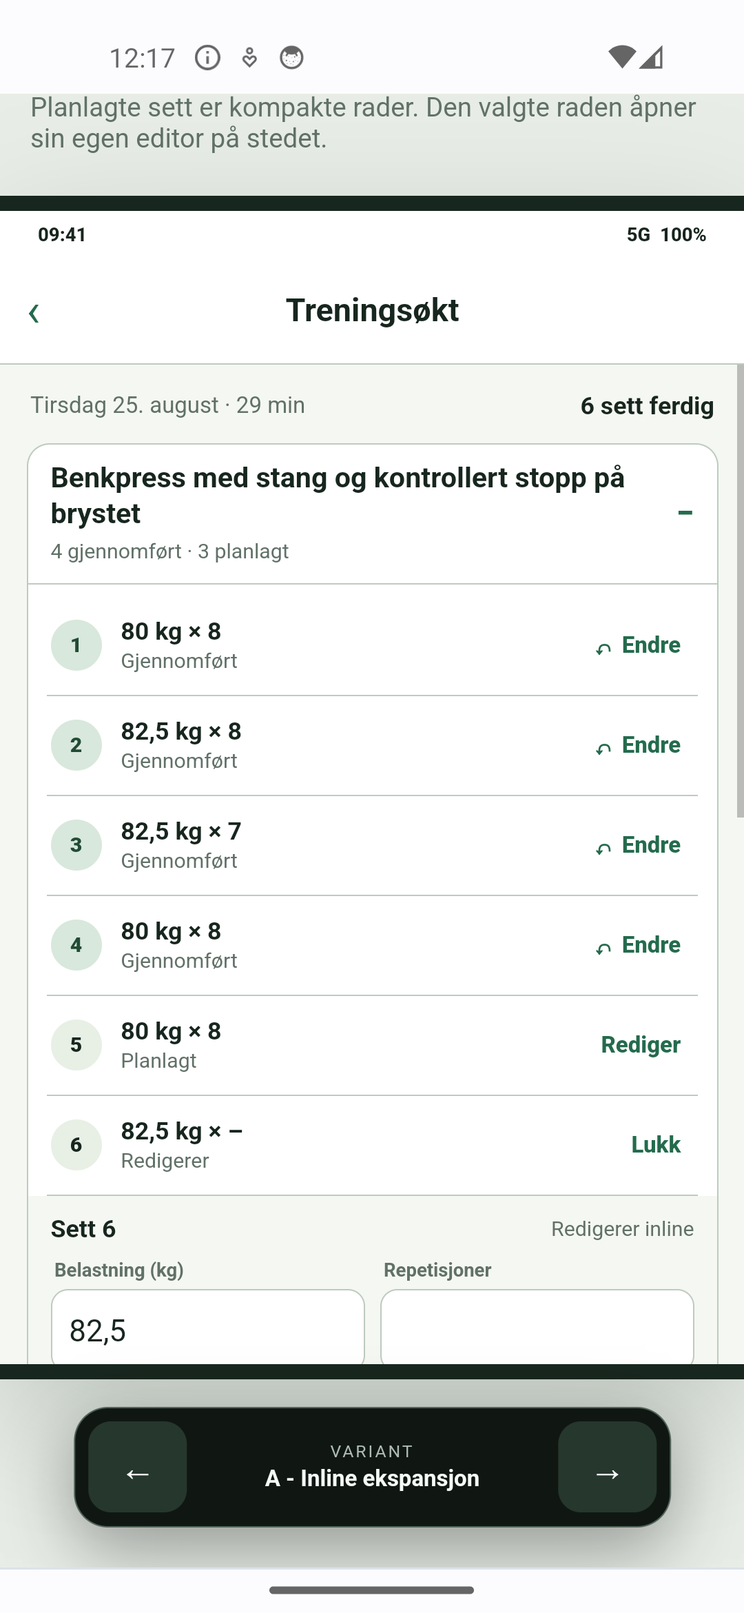
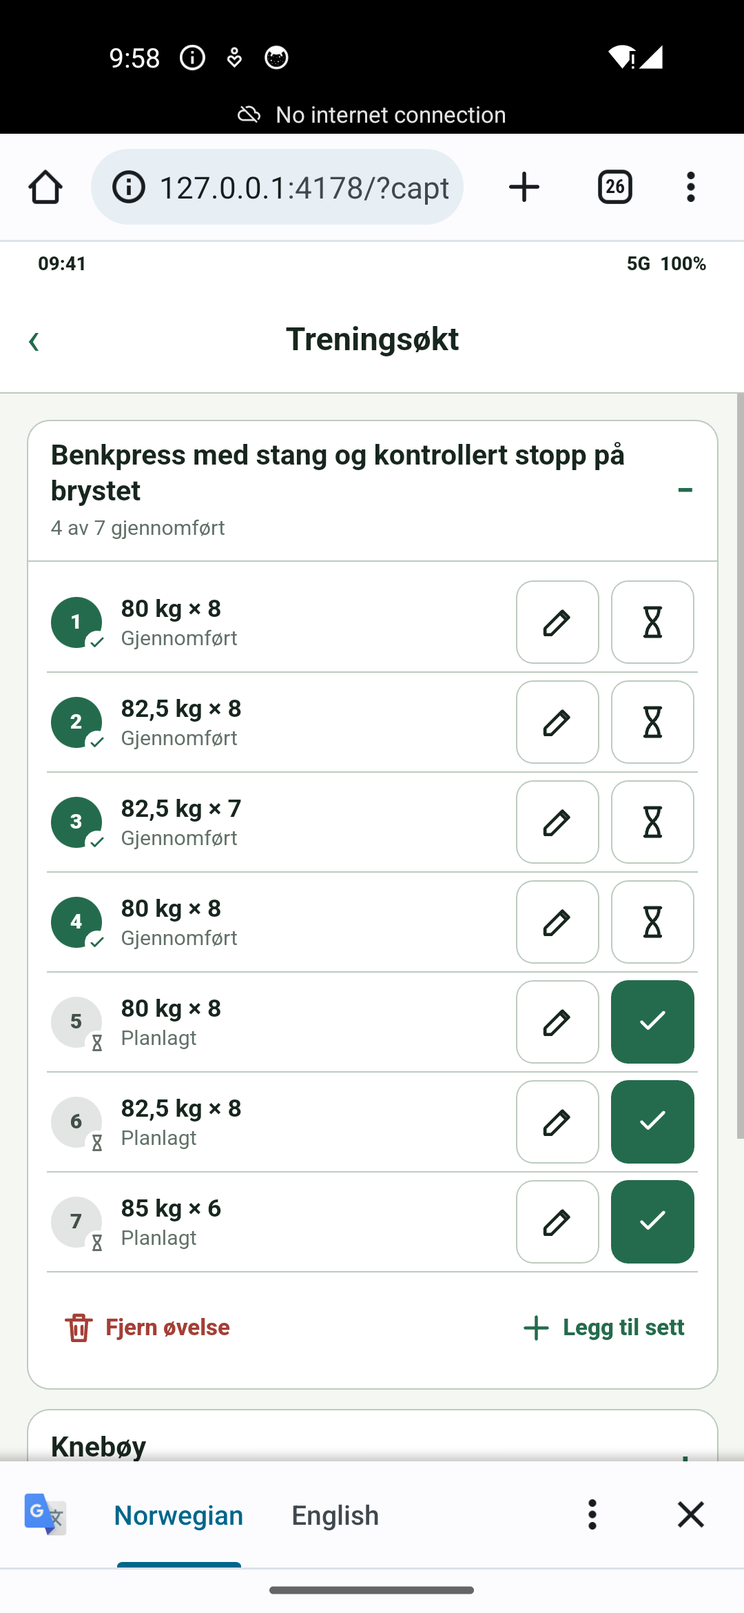
Refine approved workout prototype

diff --git a/docs/design-system/prototypes/active-workout/prototype.js b/docs/design-system/prototypes/active-workout/prototype.js
@@ -1,7 +1,7 @@
 const variants = {
   a: {
     name: 'Inline ekspansjon',
-    description: 'Planlagte sett er kompakte rader. Den valgte raden åpner sin egen editor på stedet.',
+    description: 'Alle sett hviler som kompakte rader. Status endres på raden, mens redigering åpner romslige felt på stedet.',
   },
   b: {
     name: 'Delt editor',
@@ -23,8 +23,8 @@ const exerciseSeed = [
       { id: 'b3', status: 'completed', load: '82,5', reps: '7' },
       { id: 'b4', status: 'completed', load: '80', reps: '8' },
       { id: 'b5', status: 'planned', load: '80', reps: '8' },
-      { id: 'b6', status: 'planned', load: '82,5', reps: '' },
-      { id: 'b7', status: 'planned', load: '', reps: '' },
+      { id: 'b6', status: 'planned', load: '82,5', reps: '8' },
+      { id: 'b7', status: 'planned', load: '85', reps: '6' },
     ],
   },
   { id: 'squat', name: 'Knebøy', sets: [{ id: 's1', status: 'completed', load: '110', reps: '5' }, { id: 's2', status: 'planned', load: '110', reps: '5' }] },
@@ -39,13 +39,14 @@ const keyboard = document.querySelector('#keyboard');
 const dialogLayer = document.querySelector('#dialog-layer');
 const variantKeys = Object.keys(variants);
 const params = new URLSearchParams(window.location.search);
+if (params.has('capture')) document.body.dataset.capture = 'true';
 
 let variant = variants[params.get('variant')] ? params.get('variant') : 'a';
 let scenario = params.get('scenario') === 'empty' ? 'empty' : 'dense';
 let reviewState = 'normal';
 let expansion = 'one';
 let openExerciseIds = new Set(['bench']);
-let selectedSetId = 'b6';
+let selectedSetId = variant === 'b' ? 'b6' : variant === 'a' ? params.get('edit') || (params.get('capture') === 'edit' ? 'b6' : '') : '';
 let exercises = cloneSeed();
 
 function cloneSeed() {
@@ -62,15 +63,27 @@ function setQueryParam(name, value) {
   window.history.replaceState({}, '', next);
 }
 
-function compactAction(icon, label, action, extra = '') {
-  return `<button class="compact-action ${extra}" data-action="${action}" type="button"><span aria-hidden="true">${icon}</span>${label}</button>`;
+function icon(name) {
+  const paths = {
+    check: '<path d="m5 12 4 4L19 6"/>',
+    chevronUp: '<path d="m6 15 6-6 6 6"/>',
+    edit: '<path d="M4 20h4L19 9l-4-4L4 16v4Z"/><path d="m13.5 6.5 4 4"/>',
+    hourglass: '<path d="M7 3h10M7 21h10M8 3c0 4 1 6 4 9-3 3-4 5-4 9M16 3c0 4-1 6-4 9 3 3 4 5 4 9"/>',
+    plus: '<path d="M12 5v14M5 12h14"/>',
+    restore: '<path d="M4 10a8 8 0 1 1 2 8"/><path d="M4 4v6h6"/>',
+    trash: '<path d="M4 7h16M9 7V4h6v3M7 7l1 13h8l1-13M10 11v5M14 11v5"/>',
+  };
+  return `<svg class="prototype-icon" viewBox="0 0 24 24" aria-hidden="true" focusable="false">${paths[name]}</svg>`;
+}
+
+function compactAction(iconName, label, action, extra = '') {
+  return `<button class="compact-action ${extra}" data-action="${action}" type="button">${icon(iconName)}${label}</button>`;
 }
 
 function summary(exercise) {
   const completed = exercise.sets.filter((set) => set.status === 'completed').length;
-  const planned = exercise.sets.length - completed;
   if (!exercise.sets.length) return 'Ingen sett ennå';
-  return `${completed} gjennomført · ${planned} planlagt`;
+  return `${completed} av ${exercise.sets.length} gjennomført`;
 }
 
 function expandedIds() {
@@ -82,11 +95,21 @@ function setExpansion(value) {
   openExerciseIds = value === 'zero' ? new Set() : value === 'several' ? new Set(['bench', 'squat', 'row']) : new Set(['bench']);
 }
 
+function hasValidValues(load, reps) {
+  const normalizedLoad = load.replace(',', '.');
+  return /^(?:\d{1,3})(?:[,.]\d)?$/.test(load)
+    && Number(normalizedLoad) >= 0
+    && Number(normalizedLoad) <= 999.9
+    && /^\d{1,3}$/.test(reps)
+    && Number(reps) >= 1
+    && Number(reps) <= 999;
+}
+
 function renderCompletedRow(set, index) {
   return `<div class="set-row completed" data-set-id="${set.id}">
     <span class="set-number">${index + 1}</span>
     <span class="set-copy"><b>${escapeHtml(set.load)} kg × ${escapeHtml(set.reps)}</b><small>Gjennomført</small></span>
-    <button class="compact-action" data-action="reopen" data-set-id="${set.id}" type="button"><span aria-hidden="true">↶</span>Endre</button>
+    <button class="compact-action" data-action="reopen" data-set-id="${set.id}" type="button">${icon('restore')}Endre</button>
   </div>`;
 }
 
@@ -101,33 +124,36 @@ function editor(set, index, shared = false) {
   const failed = state === 'failed';
   const busy = state === 'busy';
   const load = invalid ? '-10' : set.load;
+  const canSave = hasValidValues(load, set.reps) && !invalid;
   return `<section class="${shared ? 'shared-editor' : 'expanded-editor'}" aria-label="Rediger sett ${index + 1}">
-    <div class="editor-heading"><b>Sett ${index + 1}</b><span>${shared ? 'Valgt sett' : 'Redigerer inline'}</span></div>
     <div class="fields">
       <label class="field ${invalid ? 'invalid' : ''}"><span>Belastning (kg)</span><input data-field="load" data-set-id="${set.id}" inputmode="decimal" value="${escapeHtml(load)}" ${busy ? 'disabled' : ''}></label>
       <label class="field"><span>Repetisjoner</span><input data-field="reps" data-set-id="${set.id}" inputmode="numeric" value="${escapeHtml(set.reps)}" ${busy ? 'disabled' : ''}></label>
     </div>
     ${invalid ? '<p class="field-error" role="alert">Belastningen må være null eller mer.</p>' : ''}
     ${failed ? '<aside class="error-alert" role="alert"><b>Kunne ikke lagre settet</b>Verdiene dine er beholdt. Prøv igjen lokalt.</aside>' : ''}
-    <div class="editor-actions">
-      ${compactAction('×', 'Fjern sett', 'remove-set', 'danger')}
-      ${failed ? '<button class="button primary" data-action="retry" type="button">Prøv igjen</button>' : busy ? '<button class="button" type="button" disabled><span class="spinner"></span>Lagrer</button>' : '<button class="button primary" data-action="confirm" type="button">Bekreft</button>'}
-    </div>
+    <div class="editor-actions">${compactAction('trash', 'Fjern sett', 'remove-set', 'danger')}${failed ? '<button class="button primary" data-action="retry" type="button">Prøv igjen</button>' : busy ? '<span class="autosave-status"><span class="spinner"></span>Lagrer</span>' : shared ? `<button class="button primary" data-action="confirm" type="button" ${canSave ? '' : 'disabled'}>Lagre</button>` : ''}</div>
   </section>`;
 }
 
 function renderVariantA(exercise) {
   return exercise.sets.map((set, index) => {
-    if (set.status === 'completed') return renderCompletedRow(set, index);
-    const selected = set.id === selectedSetId;
-    const label = set.load || set.reps ? `${set.load || '–'} kg × ${set.reps || '–'}` : 'Tomt planlagt sett';
-    return `<div data-set-container="${set.id}">
-      <div class="set-row ${selected ? 'selected' : ''}">
-        <span class="set-number">${index + 1}</span>
-        <span class="set-copy"><b>${escapeHtml(label)}</b><small>${selected ? 'Redigerer' : 'Planlagt'}</small></span>
-        <button class="compact-action" data-action="select" data-set-id="${set.id}" type="button" aria-expanded="${selected}">${selected ? 'Lukk' : 'Rediger'}</button>
+    const editing = set.id === selectedSetId;
+    const completed = set.status === 'completed';
+    const valid = hasValidValues(set.load, set.reps) && stateFor(set) !== 'invalid';
+    const label = `${set.load} kg × ${set.reps}`;
+    return `<div class="set-item ${editing ? 'editing' : ''}" data-set-container="${set.id}">
+      <div class="set-row ${completed ? 'completed' : ''} ${editing ? 'editing' : ''}">
+        <span class="set-number">${index + 1}<span class="set-status-icon" aria-hidden="true">${icon(completed ? 'check' : 'hourglass')}</span></span>
+        <span class="set-copy"><b>${escapeHtml(label)}</b><small>${completed ? 'Gjennomført' : 'Planlagt'}</small></span>
+        <span class="row-actions">
+          ${editing
+            ? `<button class="row-icon-button secondary" data-action="close-edit" type="button" aria-label="Avslutt redigering av sett ${index + 1}" ${valid ? '' : 'disabled'}>${icon('chevronUp')}</button>`
+            : `<button class="row-icon-button secondary" data-action="edit" data-set-id="${set.id}" type="button" aria-label="Rediger sett ${index + 1}" aria-expanded="false">${icon('edit')}</button>`}
+          <button class="row-icon-button ${completed ? 'secondary' : 'primary'}" data-action="toggle-status" data-set-id="${set.id}" type="button" aria-label="${completed ? `Sett sett ${index + 1} tilbake til planlagt` : `Marker sett ${index + 1} som gjennomført`}" ${editing && !valid ? 'disabled' : ''}>${icon(completed ? 'hourglass' : 'check')}</button>
+        </span>
       </div>
-      ${selected ? editor(set, index) : ''}
+      ${editing ? editor(set, index) : ''}
     </div>`;
   }).join('');
 }
@@ -136,7 +162,7 @@ function renderVariantB(exercise) {
   const rows = exercise.sets.map((set, index) => {
     if (set.status === 'completed') return renderCompletedRow(set, index);
     const selected = set.id === selectedSetId;
-    const label = set.load || set.reps ? `${set.load || '–'} kg × ${set.reps || '–'}` : 'Tomt planlagt sett';
+    const label = `${set.load} kg × ${set.reps}`;
     return `<div class="set-row ${selected ? 'selected' : ''}">
       <span class="set-number">${index + 1}</span>
       <span class="set-copy"><b>${escapeHtml(label)}</b><small>${selected ? 'Valgt' : 'Planlagt'}</small></span>
@@ -160,8 +186,8 @@ function renderVariantC(exercise) {
         <span class="set-number">${index + 1}</span>
         <label><span>kg</span><input class="dense-input ${invalid ? 'invalid' : ''}" aria-label="Belastning for sett ${index + 1}" data-field="load" data-set-id="${set.id}" inputmode="decimal" value="${escapeHtml(invalid ? '-10' : set.load)}" ${busy ? 'disabled' : ''}></label>
         <label><span>reps</span><input class="dense-input" aria-label="Repetisjoner for sett ${index + 1}" data-field="reps" data-set-id="${set.id}" inputmode="numeric" value="${escapeHtml(set.reps)}" ${busy ? 'disabled' : ''}></label>
-        <button class="icon-action confirm" data-action="confirm" data-set-id="${set.id}" type="button" aria-label="Bekreft sett ${index + 1}" ${busy || invalid ? 'disabled' : ''}>✓</button>
-        <button class="icon-action" data-action="remove-set" data-set-id="${set.id}" type="button" aria-label="Fjern sett ${index + 1}" ${busy ? 'disabled' : ''}>×</button>
+        <button class="icon-action confirm" data-action="confirm" data-set-id="${set.id}" type="button" aria-label="Bekreft sett ${index + 1}" ${busy || invalid ? 'disabled' : ''}>${icon('check')}</button>
+        <button class="icon-action" data-action="remove-set" data-set-id="${set.id}" type="button" aria-label="Fjern sett ${index + 1}" ${busy ? 'disabled' : ''}>${icon('trash')}</button>
       </div>
       ${invalid ? '<p class="field-error" role="alert">Sett 6: Belastningen må være null eller mer.</p>' : ''}
       ${failed ? '<aside class="error-alert" role="alert"><b>Sett 6 ble ikke lagret</b>Verdiene er beholdt. <button class="compact-action" data-action="retry" type="button">Prøv igjen</button></aside>' : ''}
@@ -180,13 +206,12 @@ function exerciseCard(exercise) {
     <button class="exercise-header" data-action="toggle-exercise" data-exercise-id="${exercise.id}" type="button" aria-expanded="${open}">
       <span><b>${escapeHtml(exercise.name)}</b><small>${summary(exercise)}</small></span><span class="chevron" aria-hidden="true">${open ? '−' : '+'}</span>
     </button>
-    ${open ? `<div class="exercise-body"><div class="set-list">${sets}</div><div class="exercise-actions">${compactAction('×', 'Fjern øvelse', 'remove-exercise', 'danger')}${compactAction('+', 'Legg til sett', 'add-set')}</div></div>` : ''}
+    ${open ? `<div class="exercise-body"><div class="set-list">${sets}</div><div class="exercise-actions">${compactAction('trash', 'Fjern øvelse', 'remove-exercise', 'danger')}${compactAction('plus', 'Legg til sett', 'add-set')}</div></div>` : ''}
   </article>`;
 }
 
 function denseWorkout() {
-  return `<div class="workout-meta"><span>Tirsdag 25. august · 29 min</span><strong>6 sett ferdig</strong></div>
-    <div class="exercise-list variant-${variant}">${exercises.map(exerciseCard).join('')}</div>
+  return `<div class="exercise-list variant-${variant}">${exercises.map(exerciseCard).join('')}</div>
     <div class="workout-actions">
       <button class="button secondary" data-action="add-exercise" type="button">Legg til øvelse</button>
       <button class="button primary" data-action="finish" type="button">Fullfør trening</button>
@@ -219,6 +244,16 @@ function updateControls() {
 function updateSetFromInput(input) {
   const set = exercises.flatMap((exercise) => exercise.sets).find((candidate) => candidate.id === input.dataset.setId);
   if (set) set[input.dataset.field] = input.value;
+  const editorElement = input.closest('.expanded-editor');
+  const closeButton = editorElement?.querySelector('[data-action="close-edit"]');
+  const statusButton = input.closest('.set-item')?.querySelector('[data-action="toggle-status"]');
+  if (closeButton) {
+    const fields = [...editorElement.querySelectorAll('input')];
+    const disabled = !hasValidValues(fields[0].value, fields[1].value)
+      || fields.some((field) => field.closest('.invalid'));
+    closeButton.disabled = disabled;
+    if (statusButton) statusButton.disabled = disabled;
+  }
 }
 
 function findSet(setId) {
@@ -248,7 +283,14 @@ function bindScreenActions() {
   screen.querySelectorAll('[data-action]').forEach((button) => button.addEventListener('click', () => {
     const action = button.dataset.action;
     if (['finish', 'cancel', 'remove-exercise', 'add-exercise'].includes(action)) showDialog(action);
-    if (action === 'select') { selectedSetId = selectedSetId === button.dataset.setId && variant === 'a' ? '' : button.dataset.setId; render(); }
+    if (action === 'select') { selectedSetId = button.dataset.setId; render(); }
+    if (action === 'edit') { selectedSetId = selectedSetId === button.dataset.setId ? '' : button.dataset.setId; render(); }
+    if (action === 'close-edit') { selectedSetId = ''; reviewState = 'normal'; render(); }
+    if (action === 'toggle-status') {
+      const target = findSet(button.dataset.setId);
+      if (target) target.set.status = target.set.status === 'completed' ? 'planned' : 'completed';
+      render();
+    }
     if (action === 'retry') { reviewState = 'busy'; render(); }
     if (action === 'confirm') {
       const confirmedSetId = button.dataset.setId || selectedSetId;
@@ -275,8 +317,9 @@ function bindScreenActions() {
       const card = button.closest('[data-exercise-id]');
       const exercise = exercises.find((candidate) => candidate.id === card.dataset.exerciseId);
       const id = `${exercise.id}-${Date.now()}`;
-      exercise.sets.push({ id, status: 'planned', load: '', reps: '' });
-      selectedSetId = id;
+      const previous = exercise.sets.at(-1);
+      exercise.sets.push({ id, status: 'planned', load: previous?.load || '0', reps: previous?.reps || '1' });
+      if (variant !== 'a') selectedSetId = id;
       render();
     }
     if (action === 'toggle-exercise') {
@@ -293,17 +336,17 @@ function changeVariant(direction) {
   const current = variantKeys.indexOf(variant);
   variant = variantKeys[(current + direction + variantKeys.length) % variantKeys.length];
   setQueryParam('variant', variant);
-  selectedSetId = 'b6';
+  selectedSetId = variant === 'b' ? 'b6' : '';
   render();
 }
 
 document.querySelectorAll('[data-setting]').forEach((button) => button.addEventListener('click', () => {
   const { setting, value } = button.dataset;
   if (setting === 'scenario') { scenario = value; setQueryParam('scenario', value); }
-  if (setting === 'state') reviewState = value;
+  if (setting === 'state') { reviewState = value; selectedSetId = variant === 'c' ? '' : 'b6'; }
   if (setting === 'expansion') setExpansion(value);
   exercises = cloneSeed();
-  selectedSetId = 'b6';
+  if (setting !== 'state') selectedSetId = variant === 'b' ? 'b6' : '';
   render();
 }));
 

diff --git a/docs/design-system/prototypes/active-workout/styles.css b/docs/design-system/prototypes/active-workout/styles.css
@@ -87,24 +87,39 @@ legend { color: var(--muted); font-size: 11px; font-weight: 800; letter-spacing:
 .exercise-body { border-top: 1px solid var(--border); padding: 6px 10px 10px; }
 .set-list { display: grid; }
 .set-row { align-items: center; border-bottom: 1px solid var(--border); display: grid; gap: 6px; grid-template-columns: 31px 1fr auto; min-height: 48px; padding: 4px 2px; }
-.set-number { align-items: center; background: var(--surface-alt); border-radius: 50%; display: flex; font-size: 11px; font-weight: 850; height: 27px; justify-content: center; width: 27px; }
+.set-number { align-items: center; background: #e2e5e3; border-radius: 50%; color: #435048; display: flex; font-size: 11px; font-weight: 850; height: 27px; justify-content: center; position: relative; width: 27px; }
+.set-status-icon { align-items: center; background: var(--surface); border: 1px solid var(--surface); border-radius: 50%; bottom: -4px; display: flex; height: 13px; justify-content: center; position: absolute; right: -4px; width: 13px; }
+.set-status-icon .prototype-icon { height: 10px; stroke-width: 2.5; width: 10px; }
 .set-copy { min-width: 0; }
 .set-copy b { display: block; font-size: 13px; }
 .set-copy small { color: var(--muted); display: block; font-size: 11px; margin-top: 2px; }
-.completed .set-number { background: var(--secondary); color: var(--on-secondary); }
+.completed .set-number { background: var(--primary); color: var(--on-primary); }
+.completed .set-status-icon { color: var(--primary); }
+.set-row:not(.completed) .set-status-icon { color: #667069; }
 .completed-mark { color: var(--primary); font-size: 16px; font-weight: 900; }
 .compact-action { align-items: center; background: transparent; border: 0; color: var(--primary); display: inline-flex; font-size: 12px; font-weight: 750; gap: 4px; justify-content: center; min-height: 44px; padding: 5px 7px; }
 .compact-action.danger { color: var(--danger); }
-.expanded-editor { background: var(--background); border-bottom: 1px solid var(--border); margin: 0 -10px; padding: 10px 12px 12px; }
+.prototype-icon { fill: none; height: 20px; stroke: currentColor; stroke-linecap: round; stroke-linejoin: round; stroke-width: 2; width: 20px; }
+.row-actions { align-items: center; display: flex; gap: 6px; }
+.variant-a .set-row { grid-template-columns: 31px minmax(0, 1fr) 94px; }
+.variant-a .row-actions { flex-direction: row; justify-content: flex-end; width: 94px; }
+.row-icon-button { align-items: center; border-radius: 9px; display: inline-flex; font-size: 18px; font-weight: 850; height: 44px; justify-content: center; min-width: 44px; padding: 0 10px; }
+.row-icon-button.primary { background: var(--primary); border: 1px solid var(--primary); color: var(--on-primary); }
+.row-icon-button.secondary { background: var(--surface); border: 1px solid var(--border); color: var(--text); }
+.row-icon-button:disabled { background: var(--surface-alt); border-color: var(--border); color: var(--muted); cursor: default; }
+.set-item.editing { background: var(--surface); border-bottom: 1px solid var(--border); }
+.set-item.editing .set-row { border-bottom: 0; }
+.expanded-editor { background: var(--surface); border: 0; margin: 0; padding: 8px 2px 16px 39px; }
 .editor-heading { align-items: center; display: flex; justify-content: space-between; margin-bottom: 8px; }
 .editor-heading b { font-size: 13px; }
 .editor-heading span { color: var(--muted); font-size: 11px; }
-.fields { display: grid; gap: 8px; grid-template-columns: 1fr 1fr; }
+.fields { display: grid; gap: 12px; grid-template-columns: 1fr 1fr; }
 .field span { color: var(--muted); display: block; font-size: 10px; font-weight: 700; margin: 0 0 4px 2px; }
-.field input, .dense-input { background: var(--surface); border: 1px solid var(--border); border-radius: 9px; min-height: 44px; padding: 8px 9px; width: 100%; }
+.field input, .dense-input { background: var(--surface); border: 1px solid var(--border); border-radius: 9px; min-height: 48px; padding: 10px 11px; width: 100%; }
 .field.invalid input, .dense-input.invalid { border: 2px solid var(--danger); }
 .field-error { color: var(--danger); font-size: 11px; margin: 6px 0 0; }
 .editor-actions { align-items: center; display: flex; gap: 4px; justify-content: space-between; margin-top: 8px; }
+.autosave-status { color: var(--muted); font-size: 11px; }
 .button { border: 1px solid transparent; border-radius: 9px; font-size: 13px; font-weight: 800; min-height: 44px; padding: 8px 12px; }
 .button.primary { background: var(--primary); color: var(--on-primary); }
 .button.secondary { background: var(--surface); border-color: var(--border); }
@@ -147,6 +162,9 @@ legend { color: var(--muted); font-size: 11px; font-weight: 800; letter-spacing:
 
 .screen.large-text .set-row { grid-template-columns: 34px 1fr; padding: 7px 2px; }
 .screen.large-text .set-row > :last-child { grid-column: 2; justify-self: start; }
+.screen.large-text .variant-a .set-row, .phone.narrow .variant-a .set-row { grid-template-columns: 34px minmax(0, 1fr) 94px; }
+.screen.large-text .variant-a .set-row > :last-child, .phone.narrow .variant-a .set-row > :last-child { grid-column: 3; justify-self: end; }
+.screen.large-text .variant-a .row-actions, .phone.narrow .variant-a .row-actions { align-items: center; flex-direction: row; }
 .screen.large-text .dense-edit-row { grid-template-columns: 34px 1fr 1fr; }
 .screen.large-text .dense-edit-row .icon-action { grid-column: 3; }
 .phone.narrow .fields { grid-template-columns: 1fr; }
@@ -174,3 +192,11 @@ legend { color: var(--muted); font-size: 11px; font-weight: 800; letter-spacing:
   *, *::before, *::after { scroll-behavior: auto !important; transition: none !important; }
   .spinner { animation: none; }
 }
+
+body[data-capture="true"] .control-panel,
+body[data-capture="true"] .preview-header,
+body[data-capture="true"] .variant-switcher { display: none; }
+body[data-capture="true"] .prototype-shell { display: block; min-height: 0; }
+body[data-capture="true"] .preview-panel { padding: 0; }
+body[data-capture="true"] .phone-wrap { min-height: 0; }
+body[data-capture="true"] .phone { border: 0; border-radius: 0; box-shadow: none; height: 100dvh; min-height: 100dvh; width: 100%; }

diff --git a/docs/design-system/prototypes/active-workout/REVIEW.md b/docs/design-system/prototypes/active-workout/REVIEW.md
@@ -1,6 +1,6 @@
 # Active workout density prototype review
 
-Status: ready for comparative review. This is throwaway prototype code for #219 and does not read or write production data.
+Status: direction approved on 2026-09-13. This is throwaway prototype code for #219 and does not read or write production data.
 
 ## Question
 
@@ -20,13 +20,34 @@ Open <http://localhost:4175>. Use the fixed bottom switcher, the left/right arro
 
 The control panel keeps equivalent seed data across variants. It exposes the empty and dense workouts, zero/one/several expanded cards, invalid input, local failure, local busy state, large text, narrow width, light/dark mode, and a simulated numeric keyboard.
 
+## Approved direction
+
+Variant A, inline expansion, is approved as the design source for production planning. The approval applies to the interaction and information hierarchy below, not to the throwaway HTML, CSS, or placeholder SVG paths.
+
+- Keep independently expandable exercise cards. Their summary reads “4 av 7 gjennomført”.
+- Show every set as a compact resting row with its number in a circle, load and repetitions, and explicit `Planlagt` or `Gjennomført` status.
+- Distinguish status through text, circle treatment, and a small status icon. Completed sets use the semantic green treatment; planned sets use a neutral gray treatment.
+- Keep set status independent from view/edit mode. Both planned and completed sets can enter edit mode without changing status.
+- Reserve two icon-action positions on the right in view mode at normal, large-text, and narrow widths. The secondary edit action is left of the status action. The rightmost status action is a primary check for completing a planned set or a secondary hourglass for returning a completed set to planned.
+- Replace the edit action with a secondary collapse action while the inline editor is open. Keep the status action in the rightmost position.
+- Expand the editor directly beneath its row on the same surface, without a divider that makes it look like another set. Align its left edge after the set-number column and allow fields to stack at narrow widths.
+- Autosave field changes using the existing production durability model. Incomplete drafts may persist, but remain in edit mode and cannot be collapsed or have status changed until both fields are valid.
+- Add a set in compact planned view, prefilled from the preceding set. Do not open its editor automatically.
+- Keep removal inside edit mode. Use a trash icon with the visible `Fjern sett` label. Keep `Fjern øvelse` as a labelled exercise-level action and use the same trash icon family.
+- Do not add workout date, elapsed time, or aggregate workout-level completion metadata as part of this redesign.
+- Use the prototype-local monochrome outline SVGs only as placeholders. #226 owns refinement and production catalog adoption of the icon family.
+
+Variant A was preferred because it preserves the strongest spatial connection between a compact set summary and occasional editing while keeping status changes immediately reachable. Variant B was rejected because the shared editor weakens that set-to-editor connection. Variant C was rejected because always-visible fields keep too much form chrome on screen and become crowded at narrow widths and large text.
+
+Remaining production-planning questions belong to #220: identify any compact-row, icon-button, status-badge, or inline-editor design-system work beyond #226, and specify focus, autosave failure, keyboard, and transition behavior using existing production contracts as the baseline.
+
 ## Comparative evidence
 
 | Dimension | A: inline expansion | B: shared editor | C: direct inputs |
 | --- | --- | --- | --- |
-| Useful information visible | Compact inactive rows; one editor increases only the selected row's height. | Most compact while editing because rows stay unchanged and one editor is reused. | All values and fields are visible, but every planned row is taller than a resting compact row. |
+| Useful information visible | Every set rests as a compact row with status and two actions; green/gray numbered circles with status badges separate completed from planned sets. One editor increases only the edited row's height. | Most compact while editing because rows stay unchanged and one editor is reused. | All values and fields are visible, but every planned row is taller than a resting compact row. |
 | Scrolling burden | Moderate. The editor moves with the selected row and can push later sets below the fold. | Lowest for a long planned-set list, provided the shared editor remains easy to associate with the selected row. | Moderate to high with many planned sets, though lower than today's full form sections. |
-| Editing clarity | Strong spatial connection between the selected summary and its fields. Switching may move content significantly. | Stable editor location and predictable keyboard position. Selection indication must remain strong to avoid editing the wrong set. | No selection step and fast repeated entry. Dense labels and adjacent fields increase scanning demand. |
+| Editing clarity | Status (`planned`/`completed`) is independent from mode (`view`/`edit`). Changes autosave; incomplete values remain in edit mode until both fields are valid. | Stable editor location and predictable keyboard position. Selection indication must remain strong to avoid editing the wrong set. | No selection step and fast repeated entry. Dense labels and adjacent fields increase scanning demand. |
 | Keyboard behavior | The selected row and its editor may be displaced when switching between distant sets. | The editor stays at the bottom of the card, making keyboard-open layout comparatively stable. | Direct fields can sit anywhere in the list; focus may require more scrolling, but switching adjacent fields is immediate. |
 | Large-text behavior | Fields stack cleanly, but expanded rows become substantially taller. | Shared fields stack once; compact rows reflow actions onto a second line. | The table loses some density and remove actions reflow; labels remain associated with each field. |
 | Error/busy state | Feedback is attached directly to the affected expanded row. | Feedback stays in the shared editor; the selected-row highlight carries context. | Feedback sits below the affected direct-input row and can interrupt table scanning. |
@@ -35,7 +56,7 @@ The control panel keeps equivalent seed data across variants. It exposes the emp
 ## Review script
 
 1. Compare all variants first with `Tett økt`, `Ett åpent`, normal text, light mode, and no keyboard.
-2. Select each of the three planned sets, edit values, add/remove a set, confirm it, and reopen a completed set.
+2. Toggle planned/completed status independently from editing. Edit both statuses, verify that incomplete fields prevent closing or changing status, then verify that a newly added set starts in compact planned view with values copied from the previous set.
 3. Repeat the selection transition with `Ugyldig`, `Feilet`, and `Lagrer`. Confirm that values remain visible and retry is local.
 4. Check `Ingen åpne`, `Ett åpent`, and `Flere åpne`. Expand and collapse individual exercise cards.
 5. Enable large text, narrow phone, and the simulated keyboard together. Check clipping, field association, and action reachability.
